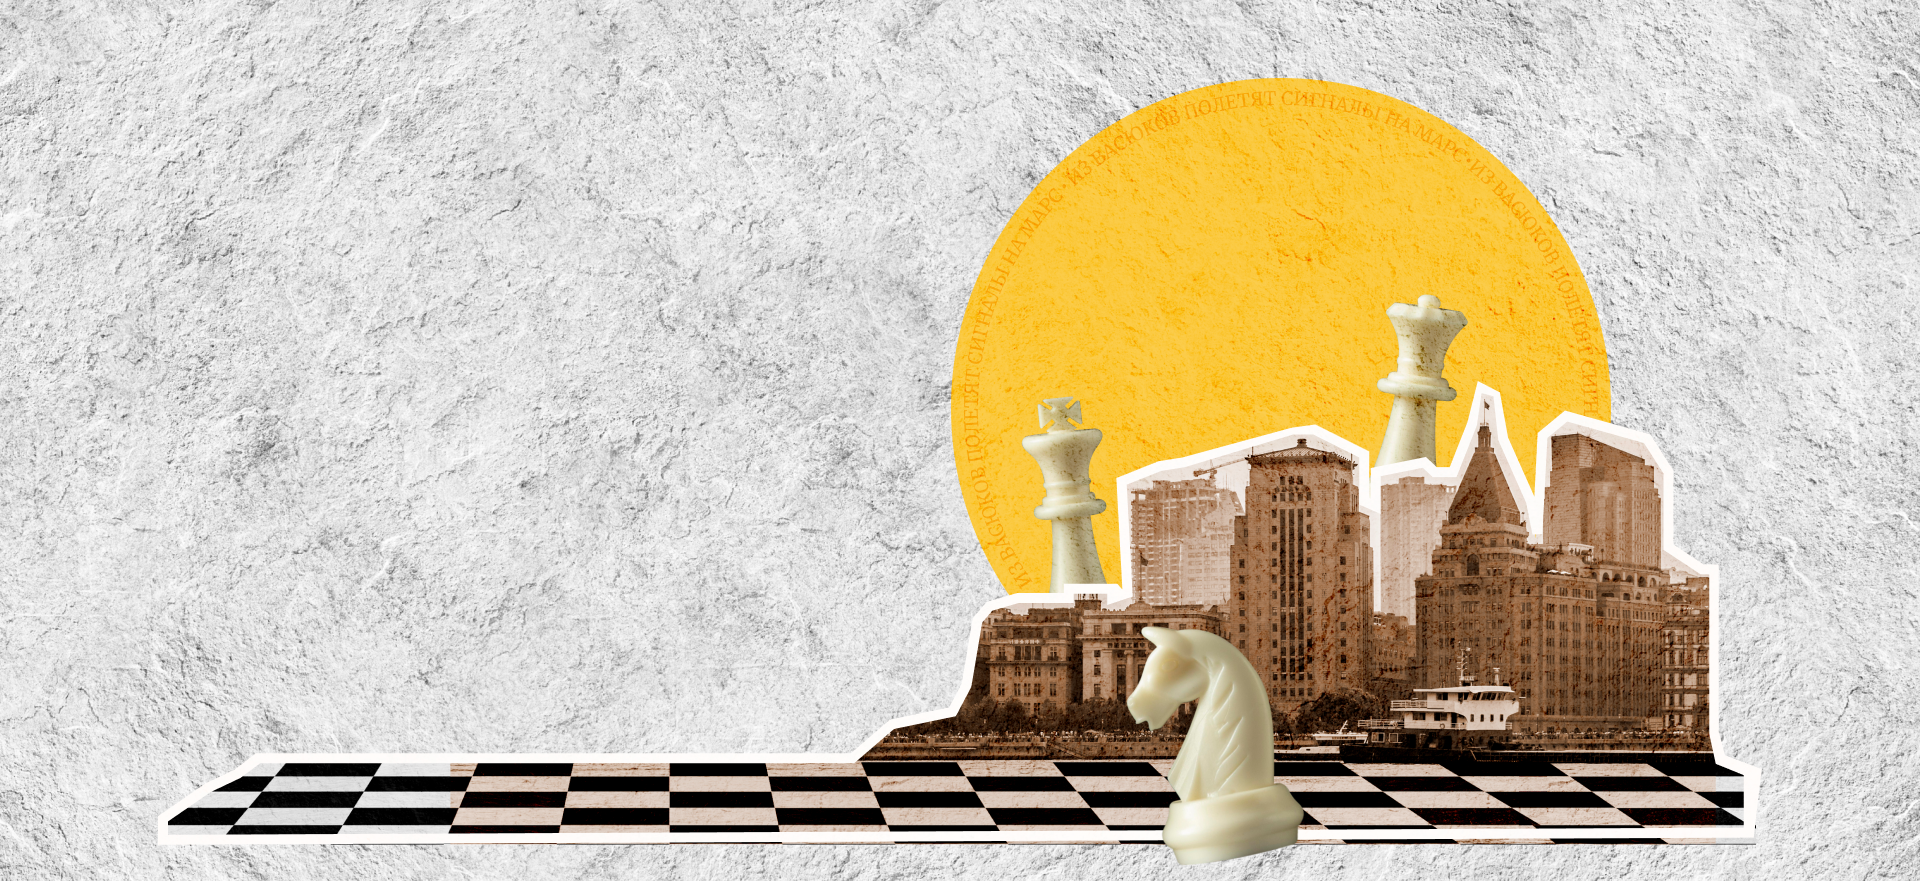
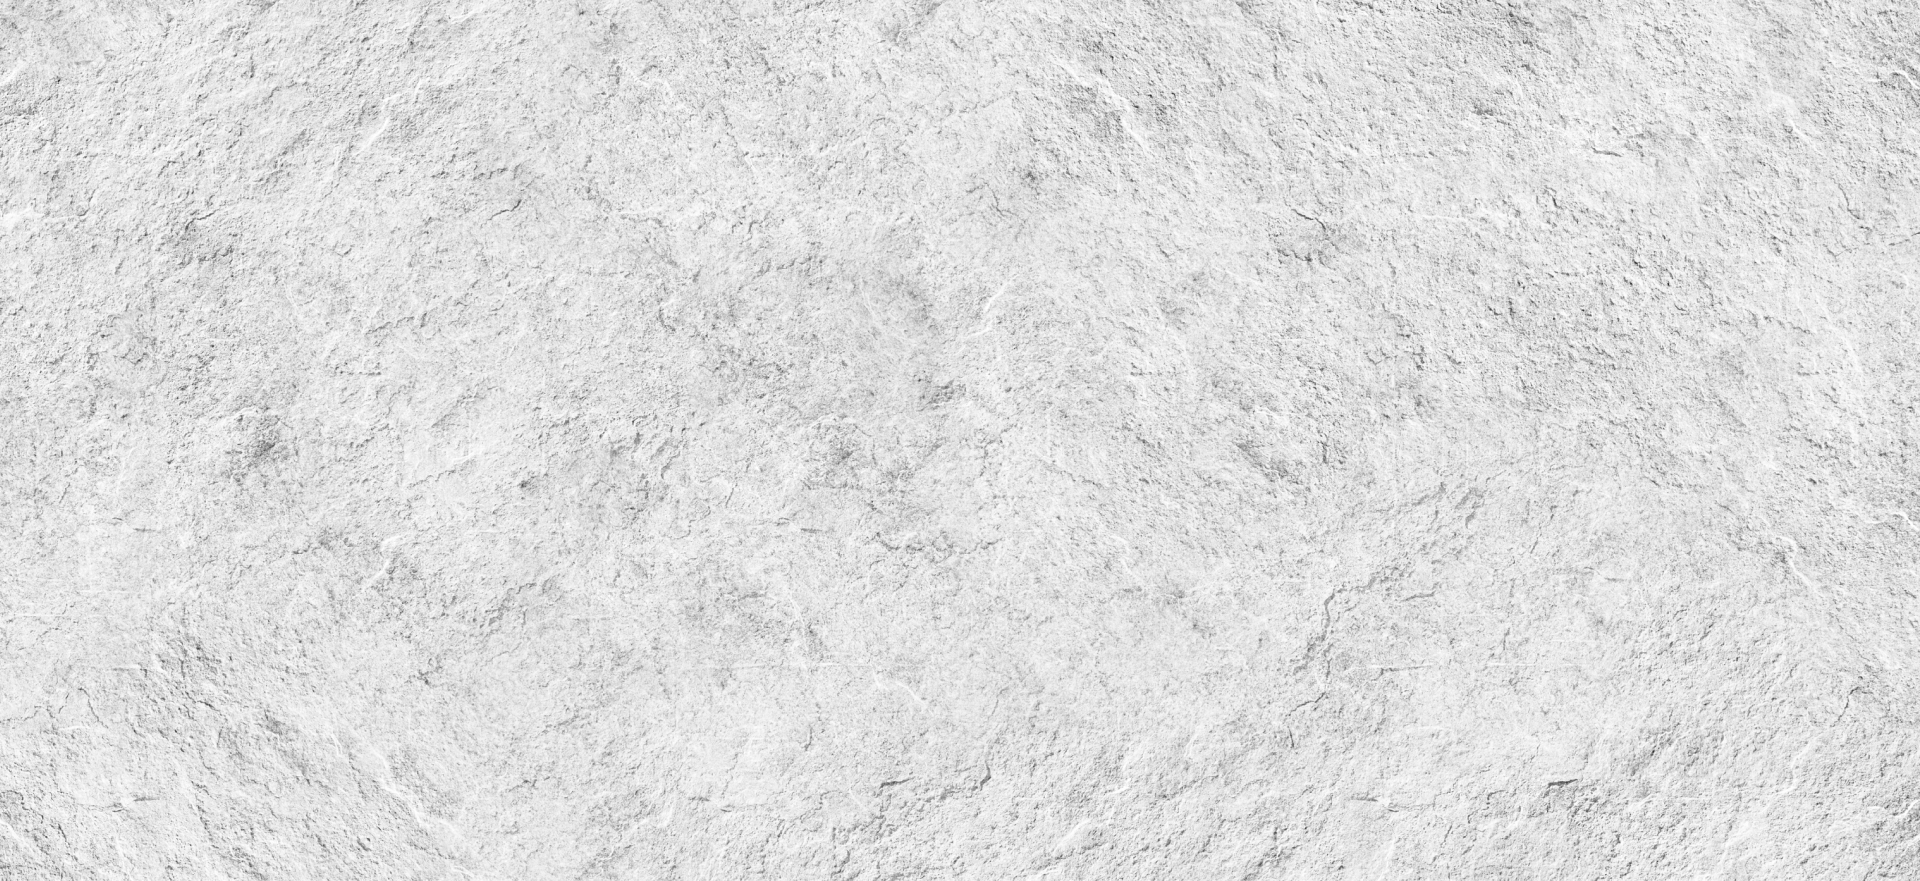
first block mobile styling

diff --git a/css/global.css b/css/global.css
@@ -1,0 +1,89 @@
+@import url('https://fonts.googleapis.com/css2?family=Merriweather:ital,opsz,wght@0,18..144,300..900;1,18..144,300..900&display=swap');
+@import url('https://fonts.googleapis.com/css2?family=Golos+Text:wght@400..900&family=Merriweather:ital,opsz,wght@0,18..144,300..900;1,18..144,300..900&display=swap');
+
+* {
+  font-size: 18px;
+  line-height: 1.3;
+  font-family: "Golos Text", sans-serif;
+  color: #313131;
+}
+
+.wrapper {
+  padding: 20px 20px 60px;
+}
+
+.header {
+  position: relative;
+  background: 76% 104% / 100% no-repeat url(../assets/images/bg-s.png);
+  background-color: #E9DED4;
+}
+
+.header::before {
+  position: absolute;
+  content: '';
+  top: 0;
+  left: 0;
+  width: 100%;
+  height: 100%;
+  background: url(../assets/images/bg-dt.png) no-repeat center;
+  object-fit: cover;
+  mix-blend-mode: color-burn;
+}
+
+.header .wrapper {
+  position: relative;
+  z-index: 2;
+}
+
+.header__topline {
+  margin-bottom: 40px;
+}
+
+.header__header_bottom {
+  text-align: center;
+  display: block;
+}
+
+h1,
+.header__header_bottom {
+  font-size: 36px;
+  font-family: "Merriweather", serif;
+  line-height: 1.1;
+  text-transform: uppercase;
+  margin-bottom: 28px;
+}
+
+.header__description {
+  margin-bottom: 28px;
+}
+
+.header__buttons {
+  margin-bottom: 290px;
+}
+
+.button {
+  width: 100%;
+  border-radius: 66px;
+  opacity: 90%;
+  background-color: #fff;
+}
+
+.button a {
+  display: block;
+  padding: 11px 0 15px;
+  text-align: center;
+  opacity: 1;
+  color: #1F1F1F;
+  font-size: 16px;
+  font-weight: 500;
+}
+
+.button.button--black {
+  background-color: #1F1F1F;
+  margin-bottom: 14px;
+  opacity: 1;
+}
+
+.button.button--black a {
+  color: #fff;
+}

diff --git a/index.html b/index.html
@@ -13,27 +13,31 @@
   <article>
     <section>
       <div class="header">
-        <div class="header__topline">
-          <a href="/" class="header__link">
-            <img src="./assets/images/logo.svg" alt="header__logo logo" class="logo">
-          </a>
-        </div>
-
-        <div class="header__content">
-          <h1>
-            Превратите уездный город
-            в столицу
-            земного шара
-          </h1>
-
-          <div class="header__description">
-            Оплатите взнос на телеграммы для организации Международного васюкинского турнира по шахматам
+        <div class="wrapper">
+          <div class="header__topline">
+            <a href="/" class="header__link">
+              <img src="./assets/images/logo.svg" alt="header__logo logo" class="logo">
+            </a>
           </div>
 
-          <div class="header__buttons">
-            <div class="button--black"><a href="#">Поддержать шахматную мысль</a></div>
+          <div class="header__content">
+            <h1 class="header__header">
+              Превратите уездный город
+              <span class="header__header_bottom">
+                в столицу
+                земного шара
+              </span>
+            </h1>
 
-            <div class="button"><a href="#">Подробнее о турнире</a></div>
+            <div class="header__description">
+              Оплатите взнос на телеграммы для организации Международного васюкинского турнира по шахматам
+            </div>
+
+            <div class="header__buttons">
+              <div class="button button--black"><a href="#">Поддержать шахматную мысль</a></div>
+
+              <div class="button"><a href="#">Подробнее о турнире</a></div>
+            </div>
           </div>
         </div>
       </div>